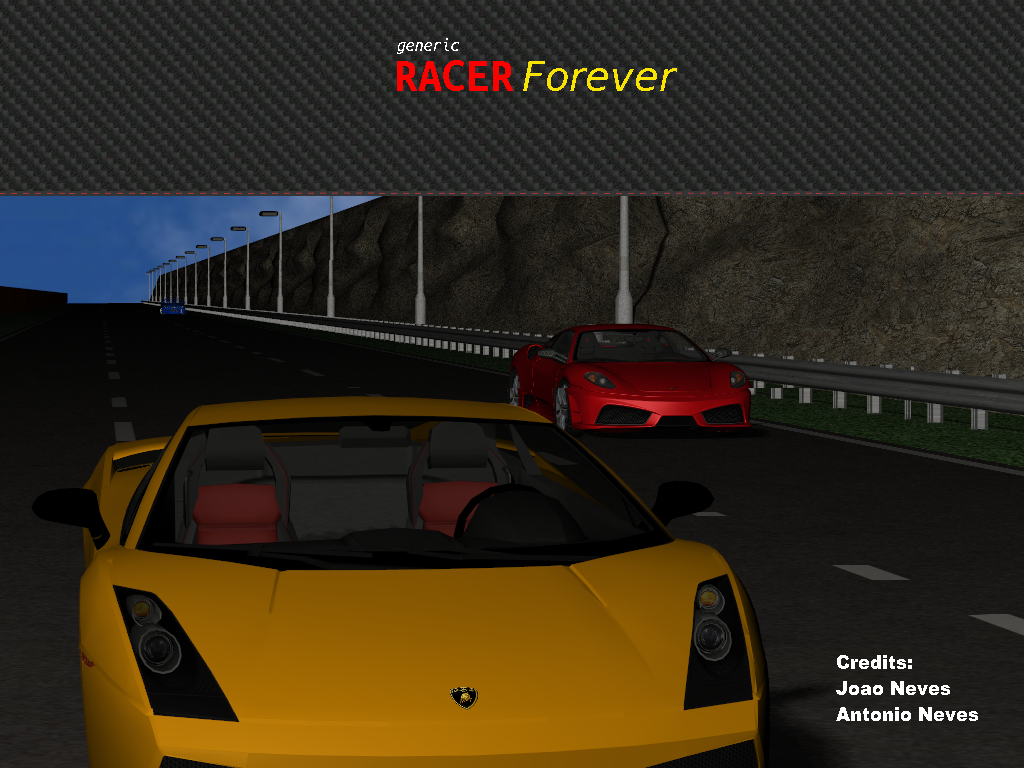
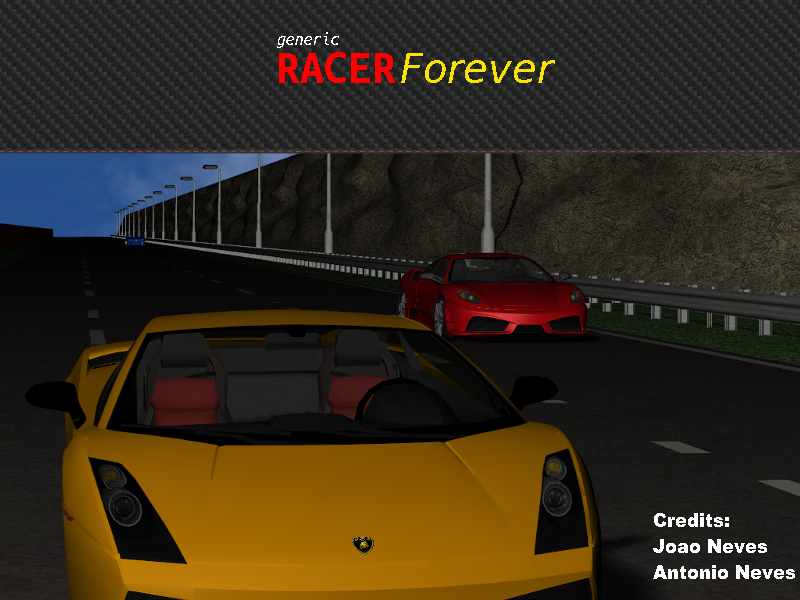
Reduced the size of the menu

diff --git a/menu.py b/menu.py
@@ -12,7 +12,6 @@ class Menu(Gtk.Window):
     def __init__(self):
         Gtk.Window.__init__(self, title="RACER Forever")
 
-
         self.grid = Gtk.Grid()
         self.grid.set_orientation(Gtk.Orientation.VERTICAL)
         self.add(self.grid)
@@ -35,7 +34,7 @@ class Menu(Gtk.Window):
         self.box.pack_end(play, False, False, 0)
         play.connect("clicked", self.play_game)
 
-        self.resize(1024, 768)
+        self.resize(800, 600)
 
     def play_game(self, widget):
         global __play__
